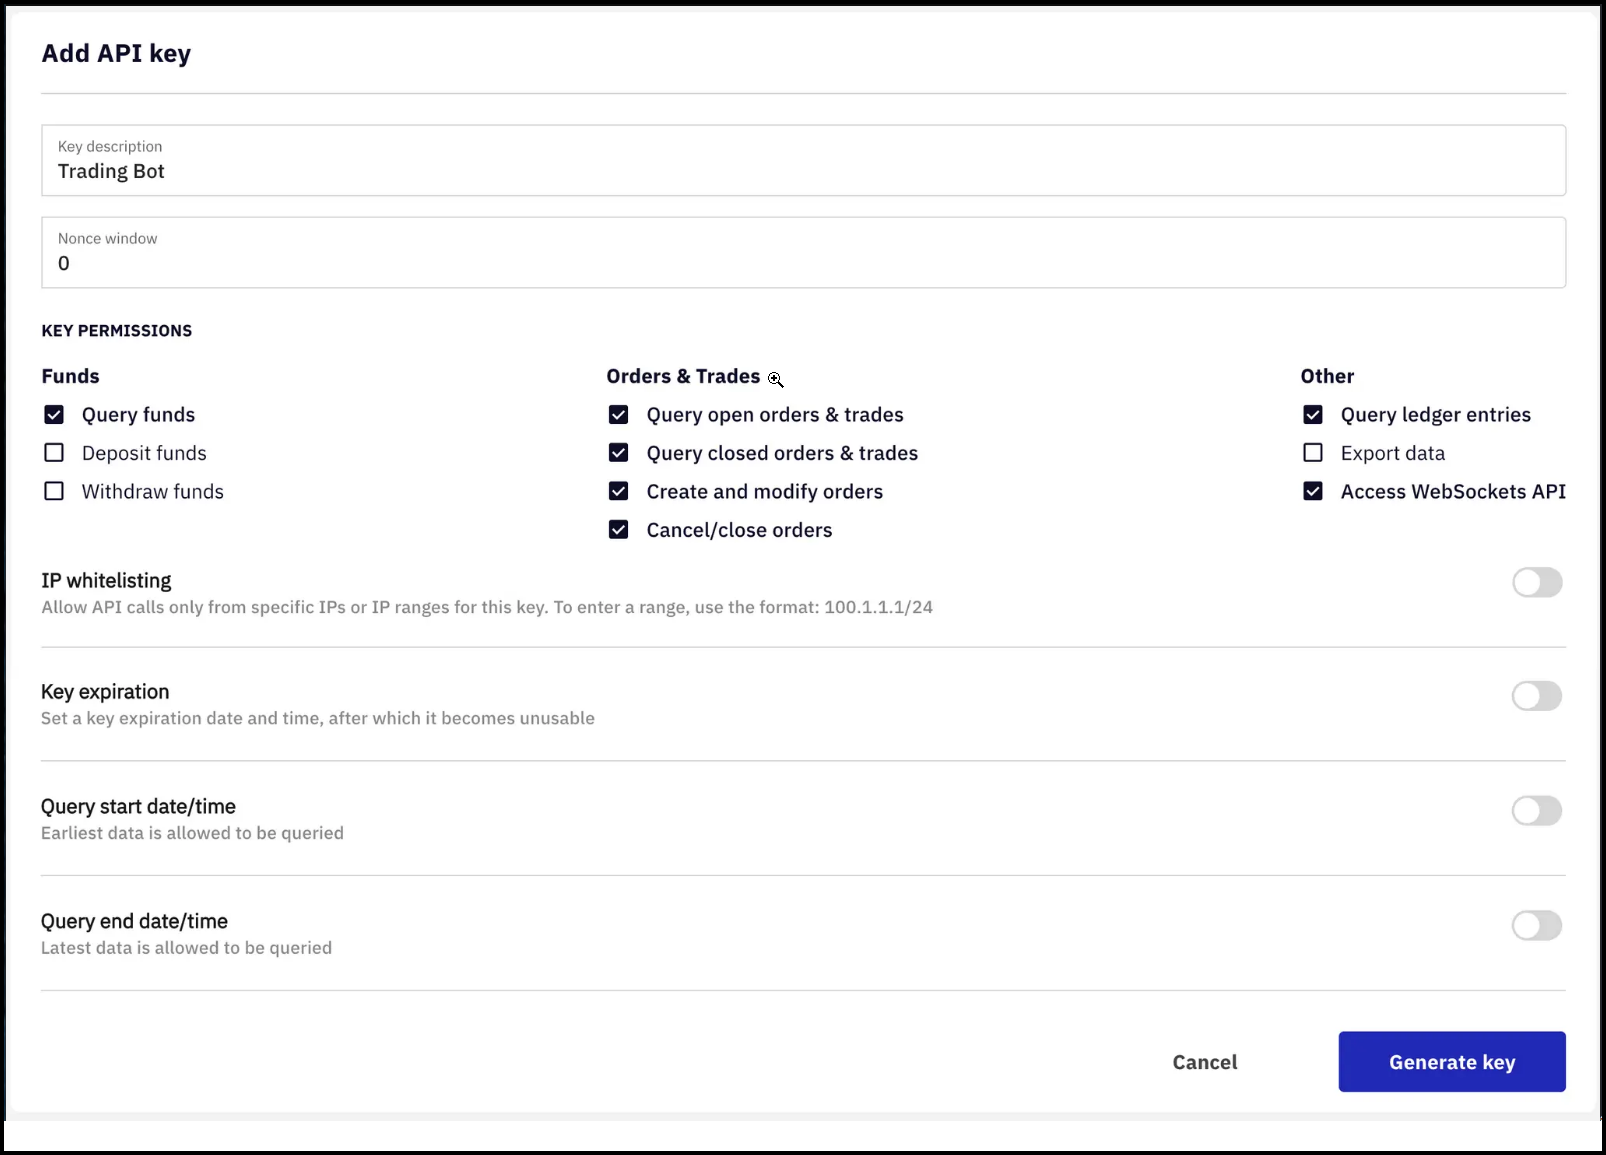
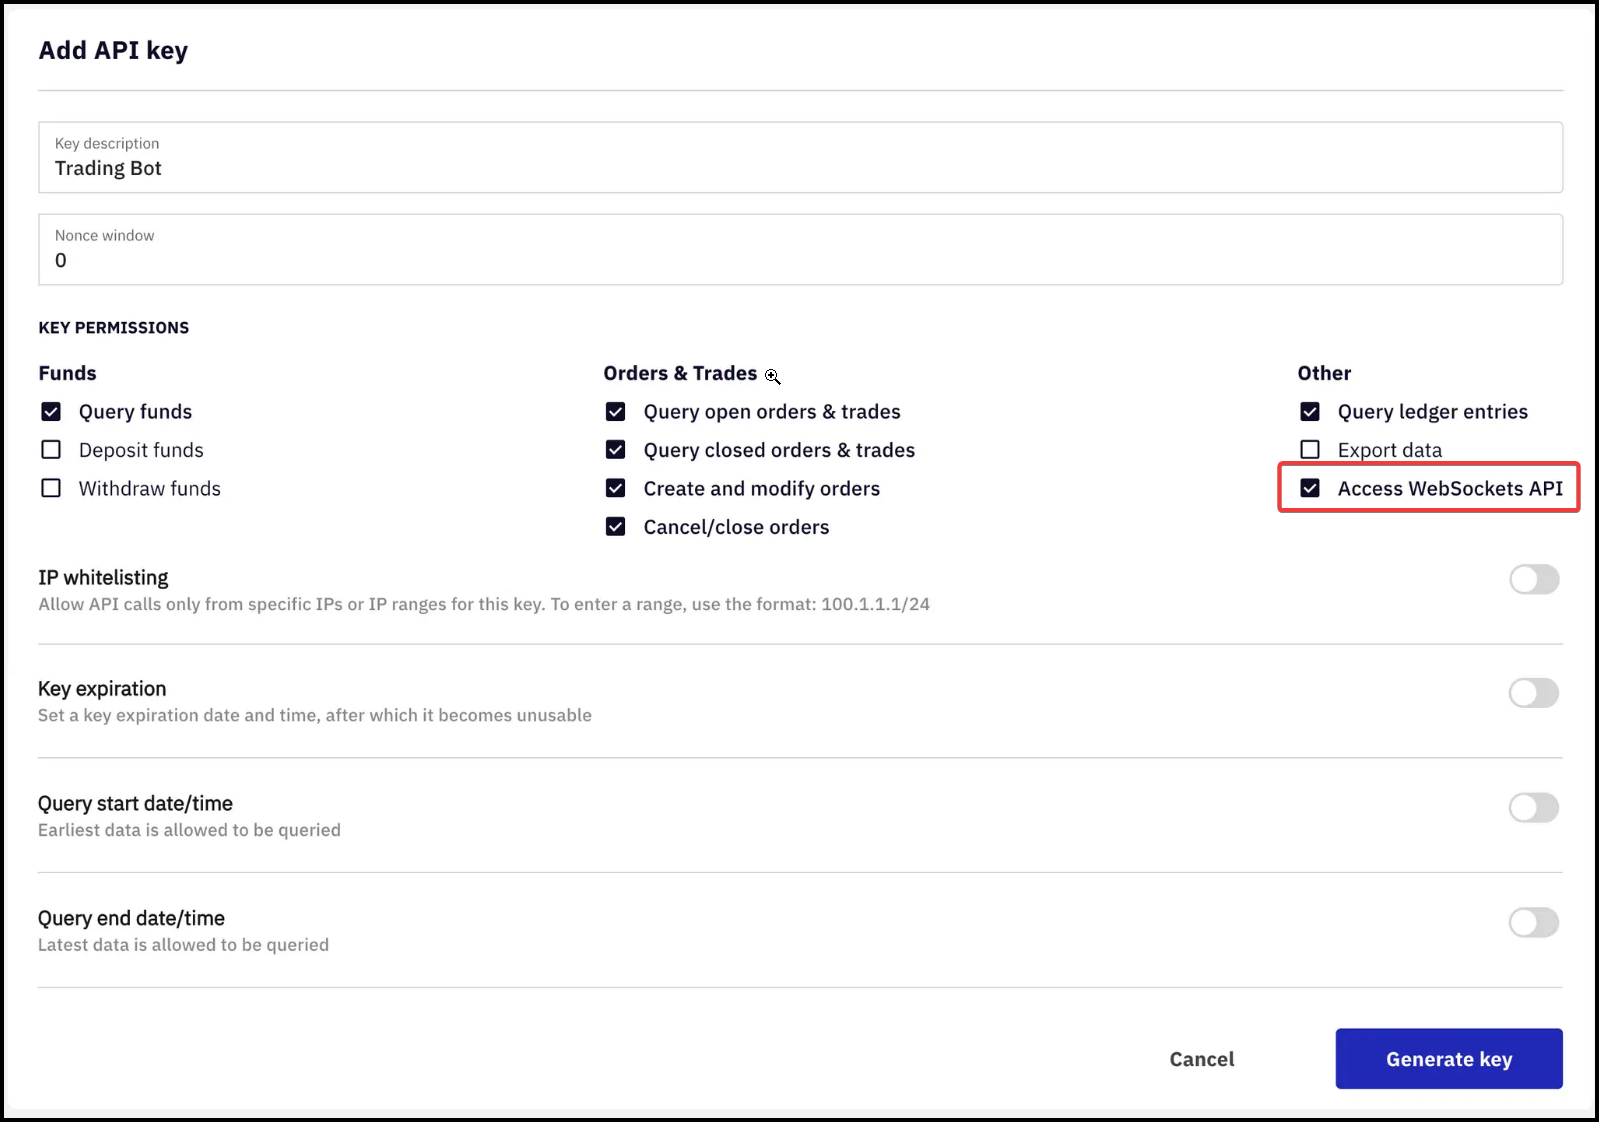
add kraken info

diff --git a/docs/troubleshooting.md b/docs/troubleshooting.md
@@ -97,7 +97,7 @@ Find the variable `AUTH_SYSTEM_ENABLED` in the `CONFIG.py` file and set it to `T
 
 ### AttributeError: 'hummingbot.connector.exchange.kraken.kraken_exchan' object has no attribute '_order_tracker'
 
-```plaintext
+```bash
 Traceback (most recent call last):
   File "hummingbot/core/pubsub.pyx", line 165, in hummingbot.core.pubsub.PubSub.c_trigger_event
     typed_listener.c_call(arg)
@@ -117,6 +117,29 @@ AttributeError: 'hummingbot.connector.exchange.kraken.kraken_exchan' object has 
 If you are getting this error on Kraken, or a similar error on a different exchange this is because the exchange connector doesn't currently support market orders which the PositionExecutor needs to close the position. 
 
 ## Connectors
+
+### ValueError: No order book exists for 'BTC-USD'.
+
+```
+     2024-01-25 21:19:12,916 - 111864 - hummingbot.connector.exchange.kraken.kraken_api_user_stream_data_source - ERROR - Unexpected error with Kraken WebSocket connection. Retrying after 30 seconds...
+Traceback (most recent call last):
+  File "/home/martin_kou/Development/hummingbot/hummingbot/connector/exchange/kraken/kraken_api_user_stream_data_source.py", line 100, in listen_for_user_stream
+    self._current_auth_token = await self.get_auth_token()
+  File "/home/martin_kou/Development/hummingbot/hummingbot/connector/exchange/kraken/kraken_api_user_stream_data_source.py", line 89, in get_auth_token
+    return response_json["result"]["token"]
+KeyError: 'result'
+
+  File "hummingbot/connector/exchange_base.pyx", line 158, in hummingbot.connector.exchange_base.ExchangeBase.c_get_price
+    OrderBook order_book = self.c_get_order_book(trading_pair)
+  File "hummingbot/connector/exchange/kraken/kraken_exchange.pyx", line 1050, in hummingbot.connector.exchange.kraken.kraken_exchange.KrakenExchange.c_get_order_book
+    raise ValueError(f"No order book exists for '{trading_pair}'.")
+ValueError: No order book exists for 'BTC-USD'.
+
+
+```
+
+If you get this error make sure that when you created the API keys you also checked the **Access Websockets API** option.
+
 
 ## Gateway
 

diff --git a/docs/exchanges/kraken/index.md b/docs/exchanges/kraken/index.md
@@ -23,22 +23,18 @@
 
 ### Generate API Keys
 
-   - Sign in to your Kraken account
-   - Open the account menu (click on your name in the upper-right corner of the page)
-   - Select the Security option
-   - Select the API option
-        
-        [![Create API](kraken-api1.png)](kraken-api1.png)
+- Open the account menu (click the profile icon in the top right corner of the page)
+- Select the Settings option
+- Select the API tab
+- Click the Create API key button (you will be able to configure your API key in the next steps)
 
-   - Click the "Add Key" link (you will be able to configure the API in the next steps)
+[![Create API](kraken-api3.png)](kraken-api3.png)
 
-        [![Create API](kraken-api2.png)](kraken-api2.png)
+!!! important
+     Ensure the **Access Websockets API** box is checked. This step is necessary to obtain an authentication token for the WebSocket APIs through the GetWebSocketsToken endpoint. Without this, the Kraken connector will be unable to reconstruct the order book and place trades. See [troubleshooting](../../troubleshooting.md#valueerror-no-order-book-exists-for-btc-usd) for an example of an error message in Hummingbot when this box is left unchecked
 
-   - Configure the API key by adding the name / description and selecting the necessary access permissions
 
-        [![Create API](kraken-api3.png)](kraken-api3.png)
-
-   - Once the API key settings have been configured appropriately, the new API key can be created by clicking on the Generate key button. Make sure to store the API keys in a safe place. 
+- Once the API key settings have been configured appropriately, the new API key can be created by clicking on the Generate key button. Make sure to store the API keys in a safe place. 
 
 ### Add Keys to Hummingbot
 
